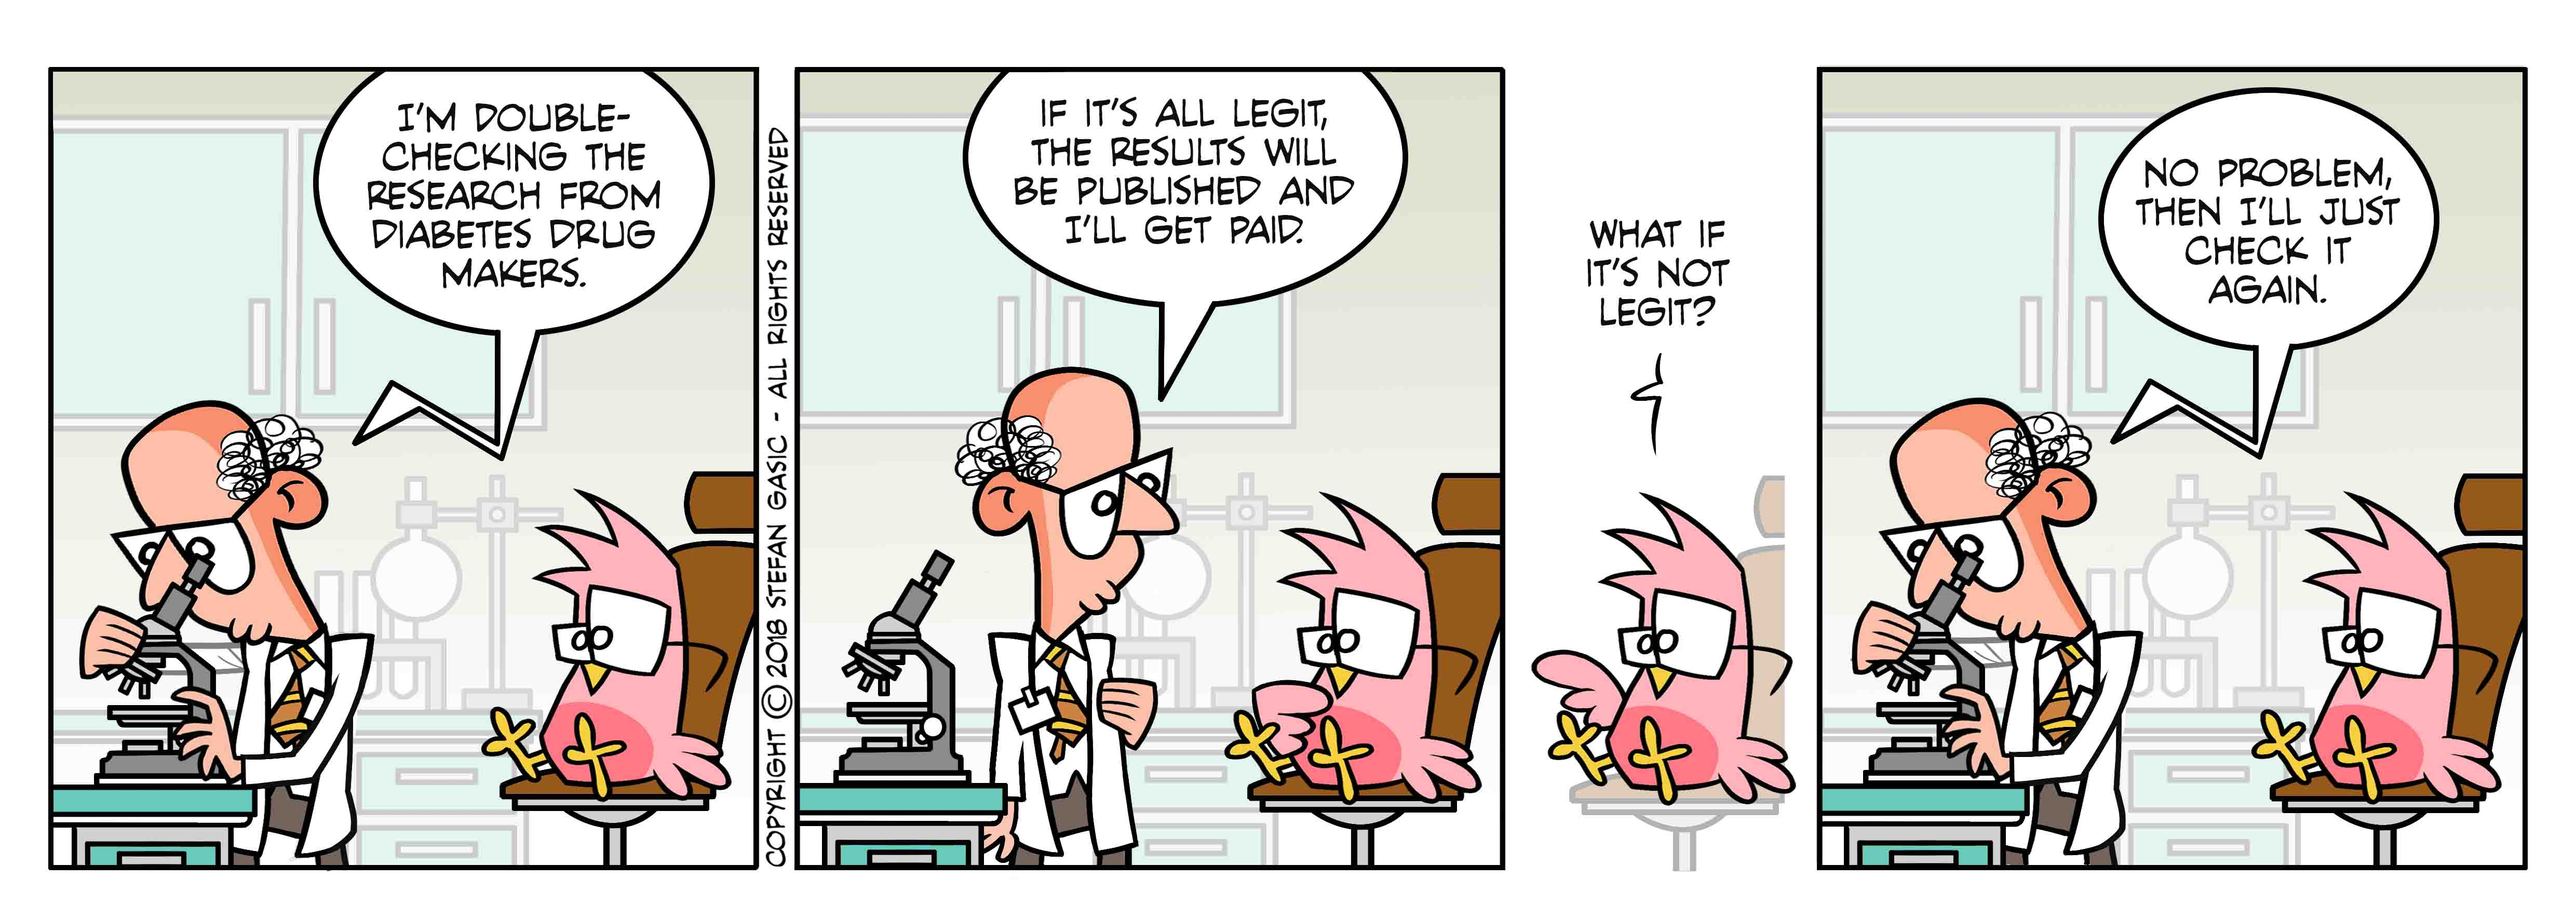
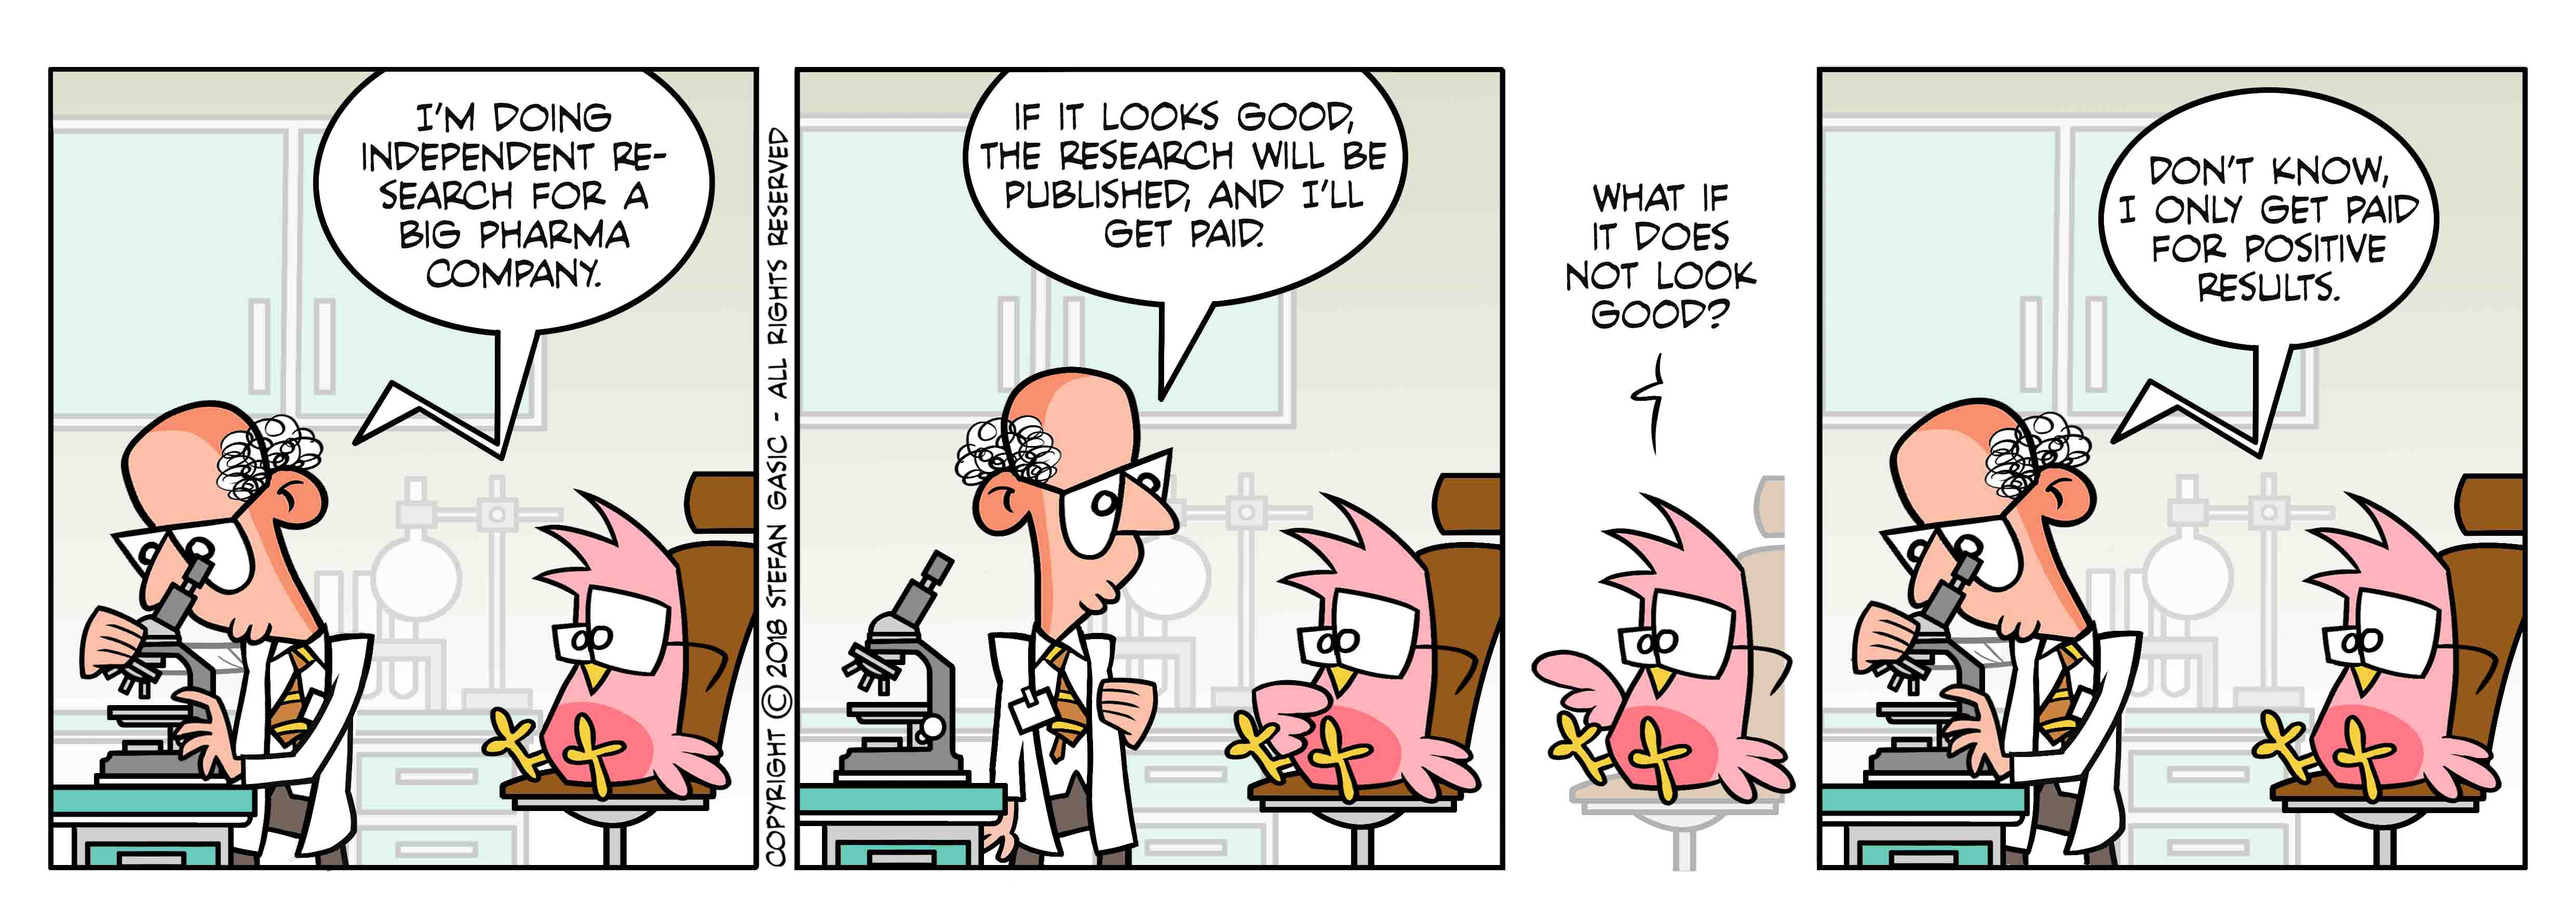
Added a new strip and update html and js accordingly.

diff --git a/myscripts.js b/myscripts.js
@@ -1,4 +1,4 @@
-var Strips = ["images/S248.jpg","images/S247.jpg","images/S246.jpg","images/S245.jpg","images/S244.jpg","images/S243.jpg","images/S242.jpg","images/S241.jpg","images/S240.jpg","images/S239.jpg","images/S238.jpg","images/S237.jpg","images/S236.jpg","images/S235.jpg","images/S234.jpg","images/S233.jpg","images/S232.jpg","images/S231.jpg","images/S230.jpg","images/S229.jpg","images/S228.jpg","images/S227.jpg","images/S226.jpg","images/S225.jpg","images/S224.jpg","images/S223.jpg","images/S222.jpg","images/S221.jpg","images/S220.jpg","images/S219.jpg","images/S218.jpg","images/S217.jpg","images/S216.jpg","images/S215.jpg","images/S214.jpg","images/S213.jpg","images/S212.jpg","images/S211.jpg","images/S210.jpg","images/S209.jpg","images/S208.jpg","images/S207.jpg","images/S206.jpg","images/S205.jpg","images/S204.jpg","images/S203.jpg","images/S202.jpg","images/S201.jpg","images/S200.jpg","images/S199.jpg","images/S198.jpg","images/S197.jpg","images/S196.jpg","images/S195.jpg","images/S194.jpg","images/S193.jpg","images/S192.jpg","images/S191.jpg","images/S190.jpg","images/S189.jpg","images/S188.jpg","images/S187.jpg","images/S186.jpg","images/S185.jpg","images/S184.jpg","images/S183.jpg","images/S182.jpg","images/S181.jpg","images/S180.jpg","images/S179.jpg","images/S178.jpg","images/S177.jpg","images/S176.jpg","images/S175.jpg","images/S174.jpg","images/S173.jpg","images/S172.jpg","images/S171.jpg","images/S170.jpg","images/S169.jpg","images/S168.jpg","images/S167.jpg","images/S166.jpg","images/S165.jpg","images/S164.jpg","images/S163.jpg","images/S162.jpg","images/S161.jpg","images/S160.jpg","images/S159.jpg","images/S158.jpg","images/S157.jpg","images/S156.jpg","images/S155.jpg","images/S154.jpg","images/S153.jpg","images/S152.jpg","images/S151.jpg","images/S150.jpg","images/S149.jpg","images/S148.jpg","images/S147.jpg","images/S146.jpg","images/S145.jpg","images/S144.jpg","images/S143.jpg","images/S142.jpg","images/S141.jpg","images/S140.jpg","images/S139.jpg","images/S138.jpg","images/S137.jpg","images/S136.jpg","images/S135.jpg","images/S134.jpg","images/S133.jpg","images/S132.jpg","images/S131.jpg","images/S130.jpg","images/S129.jpg","images/S128.jpg","images/S127.jpg","images/S126.jpg","images/S125.jpg","images/S124.jpg","images/S123.jpg","images/S122.jpg","images/S121.jpg","images/S120.jpg","images/S119.jpg","images/S118.jpg","images/S117.jpg","images/S116.jpg","images/S115.jpg","images/S114.jpg","images/S113.jpg","images/S112.jpg","images/S111.jpg","images/S110.jpg","images/S109.jpg","images/S108.jpg","images/S107.jpg","images/S106.jpg","images/S105.jpg","images/S104.jpg","images/S103.jpg","images/S102.jpg","images/S101.jpg","images/S100.jpg","images/S99.jpg","images/S98.jpg","images/S97.jpg","images/S96.jpg","images/S95.jpg","images/S94.jpg","images/S93.jpg","images/S92.jpg","images/S91.jpg","images/S90.jpg","images/S89.jpg","images/S88.jpg","images/S87.jpg","images/S86.jpg","images/S85.jpg","images/S84.jpg","images/S83.jpg","images/S82.jpg","images/S81.jpg","images/S80.jpg","images/S79.jpg","images/S78.jpg","images/S77.jpg","images/S76.jpg","images/S75.jpg","images/S74.jpg","images/S73.jpg","images/S72.jpg","images/S71.jpg","images/S70.jpg","images/S69.jpg","images/S68.jpg","images/S67.jpg","images/S66.jpg","images/S65.jpg","images/S64.jpg","images/S63.jpg","images/S62.jpg","images/S61.jpg","images/S60.jpg","images/S59.jpg","images/S58.jpg","images/S57.jpg","images/S56.jpg","images/S55.jpg","images/S54.jpg","images/S53.jpg","images/S52.jpg","images/S51.jpg","images/S50.jpg","images/S49.jpg","images/S48.jpg","images/S47.jpg","images/S46.jpg","images/S45.jpg","images/S44.jpg","images/S43.jpg","images/S42.jpg","images/S41.jpg","images/S40.jpg","images/S39.jpg","images/S38.jpg","images/S37.jpg","images/S36.jpg","images/S35.jpg","images/S34.jpg","images/S33.jpg","images/S32.jpg","images/S31.jpg","images/S30.jpg","images/S29.jpg","images/S28.jpg","images/S27.jpg","images/S26.jpg","images/S25.jpg","images/S24.jpg","images/S23.jpg","images/S22.jpg","images/S21.jpg","images/S20.jpg","images/S19.jpg","images/S18.jpg","images/S17.jpg","images/S16.jpg","images/S15.jpg","images/S14.jpg","images/S13.jpg","images/S12.jpg","images/S11.jpg","images/S10.jpg","images/S9.jpg","images/S8.jpg","images/S7.jpg","images/S6.jpg","images/S5.jpg","images/S4.jpg","images/S3.jpg","images/S2.jpg","images/S1.jpg"];
+var Strips = ["images/S249.jpg","images/S248.jpg","images/S247.jpg","images/S246.jpg","images/S245.jpg","images/S244.jpg","images/S243.jpg","images/S242.jpg","images/S241.jpg","images/S240.jpg","images/S239.jpg","images/S238.jpg","images/S237.jpg","images/S236.jpg","images/S235.jpg","images/S234.jpg","images/S233.jpg","images/S232.jpg","images/S231.jpg","images/S230.jpg","images/S229.jpg","images/S228.jpg","images/S227.jpg","images/S226.jpg","images/S225.jpg","images/S224.jpg","images/S223.jpg","images/S222.jpg","images/S221.jpg","images/S220.jpg","images/S219.jpg","images/S218.jpg","images/S217.jpg","images/S216.jpg","images/S215.jpg","images/S214.jpg","images/S213.jpg","images/S212.jpg","images/S211.jpg","images/S210.jpg","images/S209.jpg","images/S208.jpg","images/S207.jpg","images/S206.jpg","images/S205.jpg","images/S204.jpg","images/S203.jpg","images/S202.jpg","images/S201.jpg","images/S200.jpg","images/S199.jpg","images/S198.jpg","images/S197.jpg","images/S196.jpg","images/S195.jpg","images/S194.jpg","images/S193.jpg","images/S192.jpg","images/S191.jpg","images/S190.jpg","images/S189.jpg","images/S188.jpg","images/S187.jpg","images/S186.jpg","images/S185.jpg","images/S184.jpg","images/S183.jpg","images/S182.jpg","images/S181.jpg","images/S180.jpg","images/S179.jpg","images/S178.jpg","images/S177.jpg","images/S176.jpg","images/S175.jpg","images/S174.jpg","images/S173.jpg","images/S172.jpg","images/S171.jpg","images/S170.jpg","images/S169.jpg","images/S168.jpg","images/S167.jpg","images/S166.jpg","images/S165.jpg","images/S164.jpg","images/S163.jpg","images/S162.jpg","images/S161.jpg","images/S160.jpg","images/S159.jpg","images/S158.jpg","images/S157.jpg","images/S156.jpg","images/S155.jpg","images/S154.jpg","images/S153.jpg","images/S152.jpg","images/S151.jpg","images/S150.jpg","images/S149.jpg","images/S148.jpg","images/S147.jpg","images/S146.jpg","images/S145.jpg","images/S144.jpg","images/S143.jpg","images/S142.jpg","images/S141.jpg","images/S140.jpg","images/S139.jpg","images/S138.jpg","images/S137.jpg","images/S136.jpg","images/S135.jpg","images/S134.jpg","images/S133.jpg","images/S132.jpg","images/S131.jpg","images/S130.jpg","images/S129.jpg","images/S128.jpg","images/S127.jpg","images/S126.jpg","images/S125.jpg","images/S124.jpg","images/S123.jpg","images/S122.jpg","images/S121.jpg","images/S120.jpg","images/S119.jpg","images/S118.jpg","images/S117.jpg","images/S116.jpg","images/S115.jpg","images/S114.jpg","images/S113.jpg","images/S112.jpg","images/S111.jpg","images/S110.jpg","images/S109.jpg","images/S108.jpg","images/S107.jpg","images/S106.jpg","images/S105.jpg","images/S104.jpg","images/S103.jpg","images/S102.jpg","images/S101.jpg","images/S100.jpg","images/S99.jpg","images/S98.jpg","images/S97.jpg","images/S96.jpg","images/S95.jpg","images/S94.jpg","images/S93.jpg","images/S92.jpg","images/S91.jpg","images/S90.jpg","images/S89.jpg","images/S88.jpg","images/S87.jpg","images/S86.jpg","images/S85.jpg","images/S84.jpg","images/S83.jpg","images/S82.jpg","images/S81.jpg","images/S80.jpg","images/S79.jpg","images/S78.jpg","images/S77.jpg","images/S76.jpg","images/S75.jpg","images/S74.jpg","images/S73.jpg","images/S72.jpg","images/S71.jpg","images/S70.jpg","images/S69.jpg","images/S68.jpg","images/S67.jpg","images/S66.jpg","images/S65.jpg","images/S64.jpg","images/S63.jpg","images/S62.jpg","images/S61.jpg","images/S60.jpg","images/S59.jpg","images/S58.jpg","images/S57.jpg","images/S56.jpg","images/S55.jpg","images/S54.jpg","images/S53.jpg","images/S52.jpg","images/S51.jpg","images/S50.jpg","images/S49.jpg","images/S48.jpg","images/S47.jpg","images/S46.jpg","images/S45.jpg","images/S44.jpg","images/S43.jpg","images/S42.jpg","images/S41.jpg","images/S40.jpg","images/S39.jpg","images/S38.jpg","images/S37.jpg","images/S36.jpg","images/S35.jpg","images/S34.jpg","images/S33.jpg","images/S32.jpg","images/S31.jpg","images/S30.jpg","images/S29.jpg","images/S28.jpg","images/S27.jpg","images/S26.jpg","images/S25.jpg","images/S24.jpg","images/S23.jpg","images/S22.jpg","images/S21.jpg","images/S20.jpg","images/S19.jpg","images/S18.jpg","images/S17.jpg","images/S16.jpg","images/S15.jpg","images/S14.jpg","images/S13.jpg","images/S12.jpg","images/S11.jpg","images/S10.jpg","images/S9.jpg","images/S8.jpg","images/S7.jpg","images/S6.jpg","images/S5.jpg","images/S4.jpg","images/S3.jpg","images/S2.jpg","images/S1.jpg"];
 
 var Current = 0;
 var myStrip = null;

diff --git a/index.html b/index.html
@@ -38,7 +38,7 @@
 		<div class="wrapper6">
 			<div class="wrap-item61"><img src="images/2017_Offshorecomics_web_Today's Offshorecomic.jpg"/></div>
 		</div>
-		<div class="wrap-item1"><img src="images/S248.jpg" id="Strip"/></div>
+		<div class="wrap-item1"><img src="images/S249.jpg" id="Strip"/></div>
 		<div class="wrapper3">
 			<div class="wrap-item3">
 			<button class="button" onClick="Last();">&lsaquo;&lsaquo;</button>
